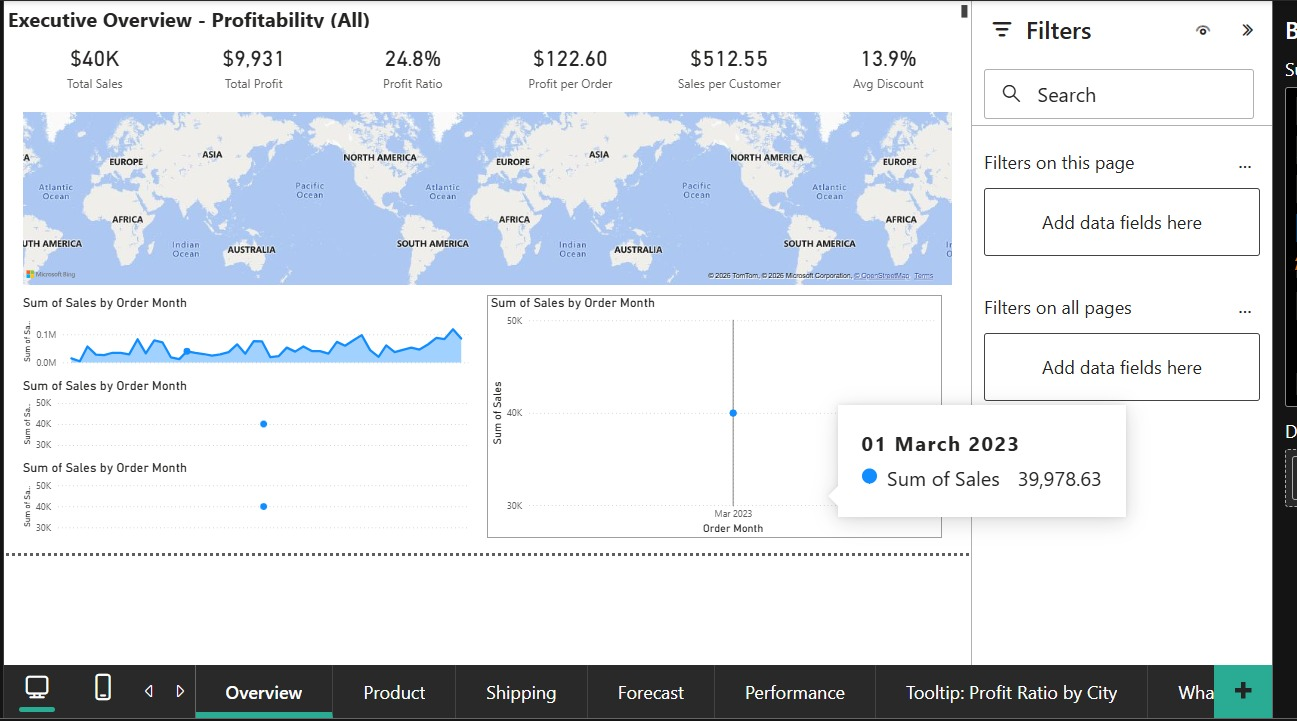
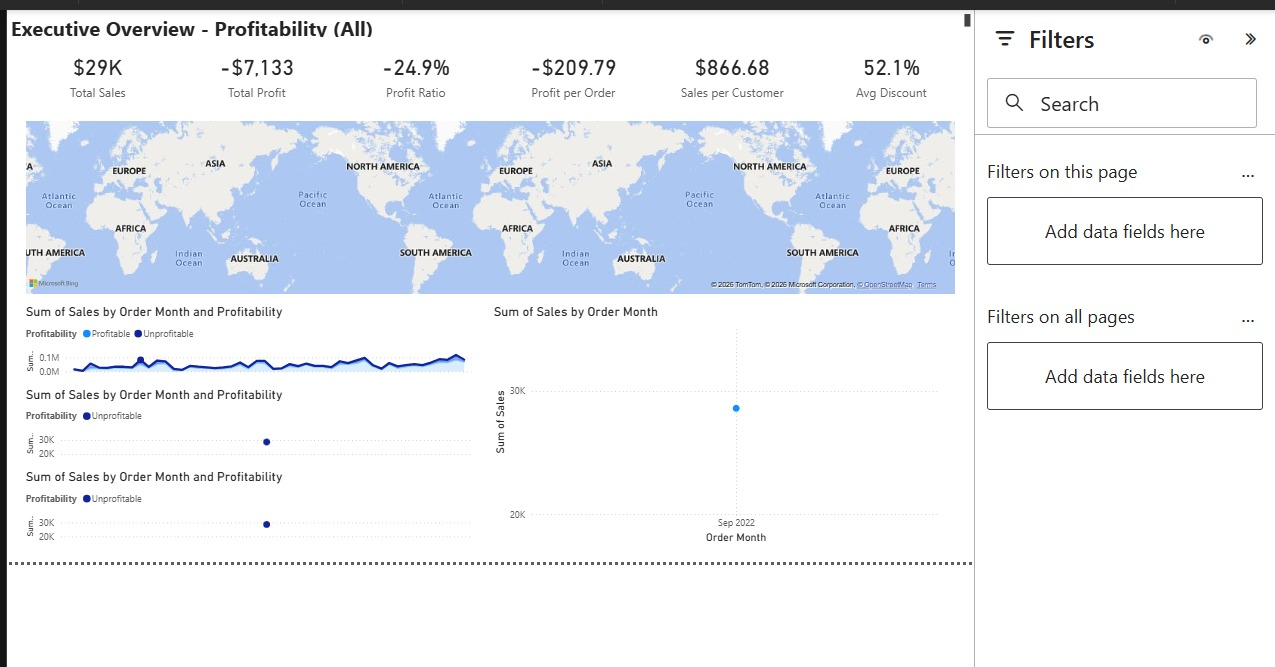
updated segment split

diff --git a/auto_convert_pbip_visuals.py b/auto_convert_pbip_visuals.py
@@ -406,24 +406,14 @@ def split_segment_visuals(
         visual_json["visual"]["autoSelectVisualType"] = False
         query_state = visual_json["visual"].get("query", {}).get("queryState", {})
         query_state.pop("SmallMultiples", None)
-        if "Legend" in query_state and "Series" not in query_state:
-            query_state["Series"] = query_state.pop("Legend")
+        if "Series" in query_state and "Legend" not in query_state:
+            query_state["Legend"] = query_state.pop("Series")
         visual_json["visual"]["query"]["queryState"] = query_state
 
         filter_config = visual_json.get("filterConfig", {})
-        filters = [
-            f
-            for f in filter_config.get("filters", [])
-            if not (
-                f.get("field", {})
-                .get("Column", {})
-                .get("Property", "")
-                .lower()
-                == "segment"
-            )
+        filter_config["filters"] = [
+            build_segment_value_filter("Orders", segment_label, suffix)
         ]
-        filters.append(build_segment_value_filter("Orders", segment_label, suffix))
-        filter_config["filters"] = filters
         visual_json["filterConfig"] = filter_config
 
         visual_dir = visuals_dir / visual_json["name"]
